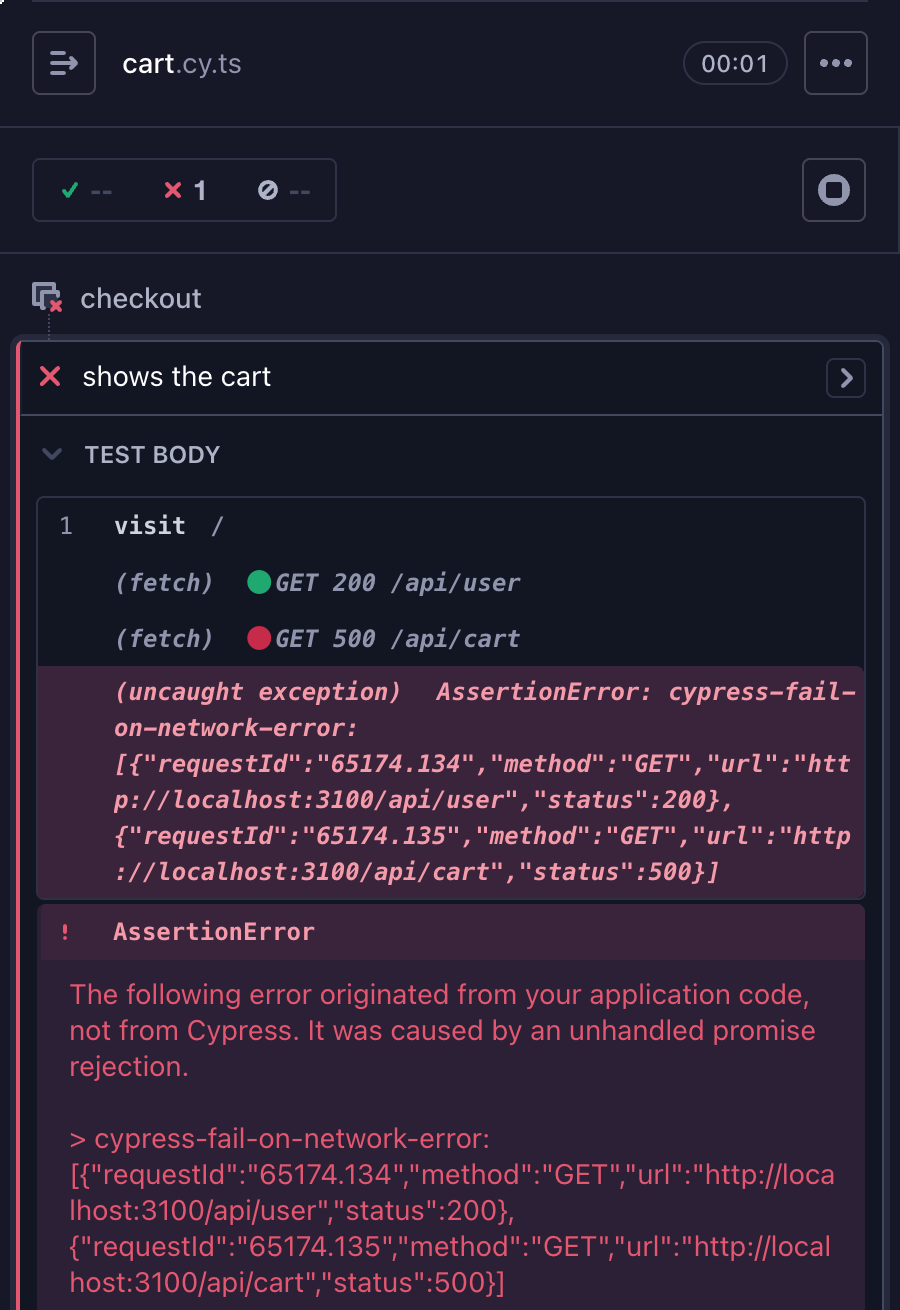
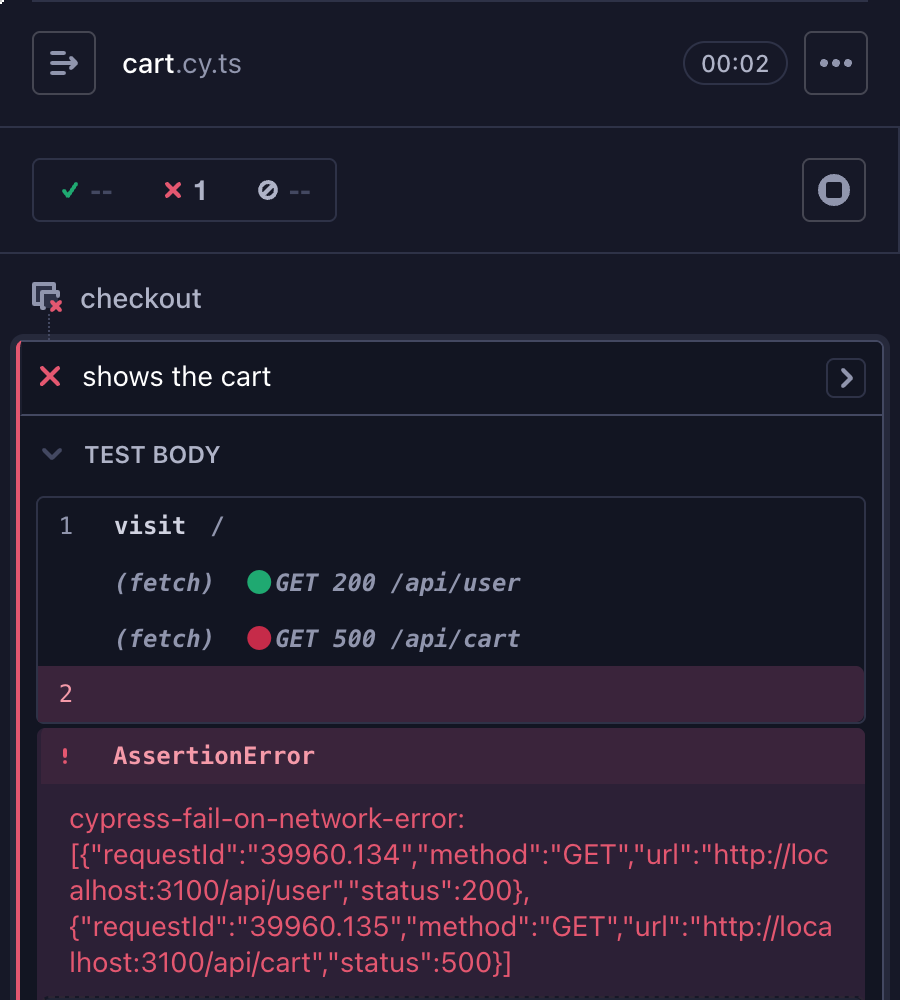
Show the fixed failure in the README screenshot
Since #292 the test fails as the plugin's AssertionError instead of an
uncaught exception from the application. Retake the command log
screenshot to match, and say that a response after the test's last
command is not checked.

diff --git a/README.md b/README.md
@@ -91,7 +91,7 @@ For TypeScript, see the command declarations in this repository's [support file]
 
 ## Wait for pending requests
 
-A response that arrives after a test has ended is not checked. To check slow requests too, wrap `waitForRequests()` in a command. Take it from the same `failOnNetworkError()` call as `getConfig()` and `setConfig()`, because each call registers its own listeners.
+A response that arrives after the test's last command is not checked. To check slow requests too, wrap `waitForRequests()` in a command. Take it from the same `failOnNetworkError()` call as `getConfig()` and `setConfig()`, because each call registers its own listeners.
 
 ```ts
 const { getConfig, setConfig, waitForRequests } = failOnNetworkError(config);
